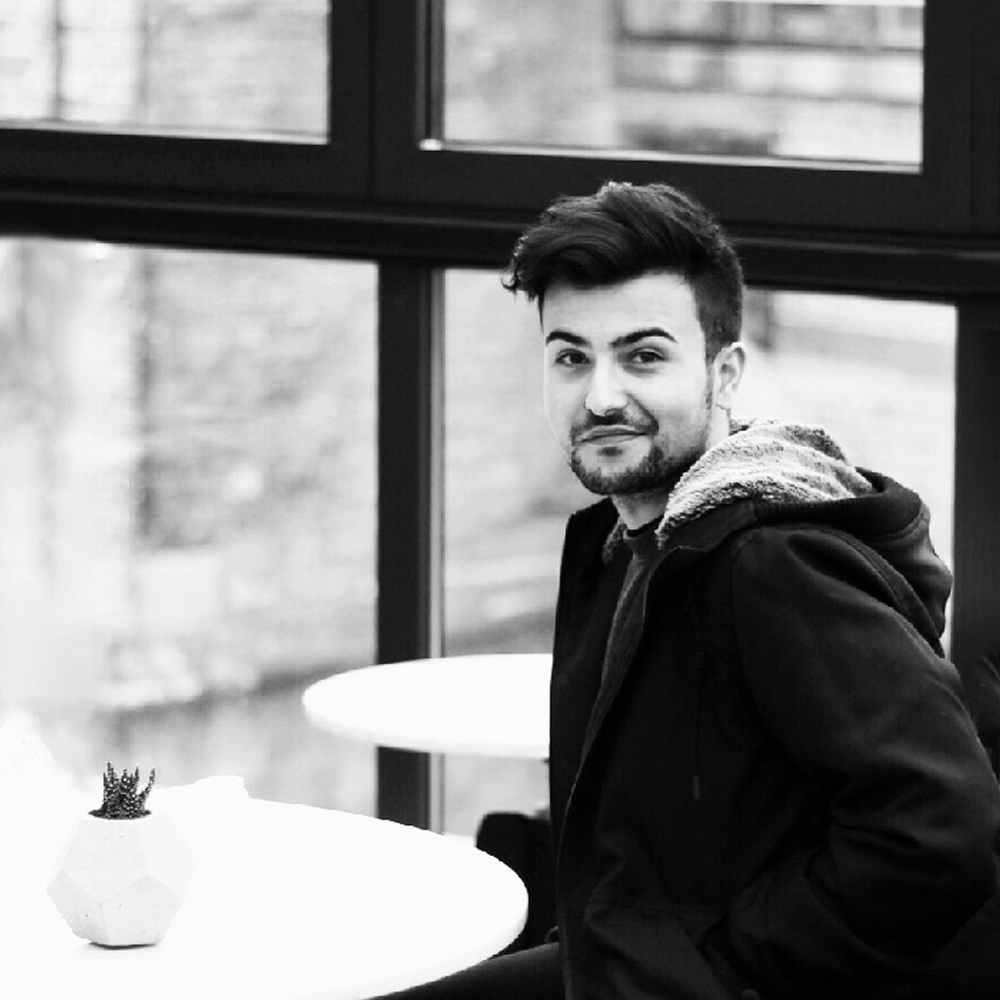
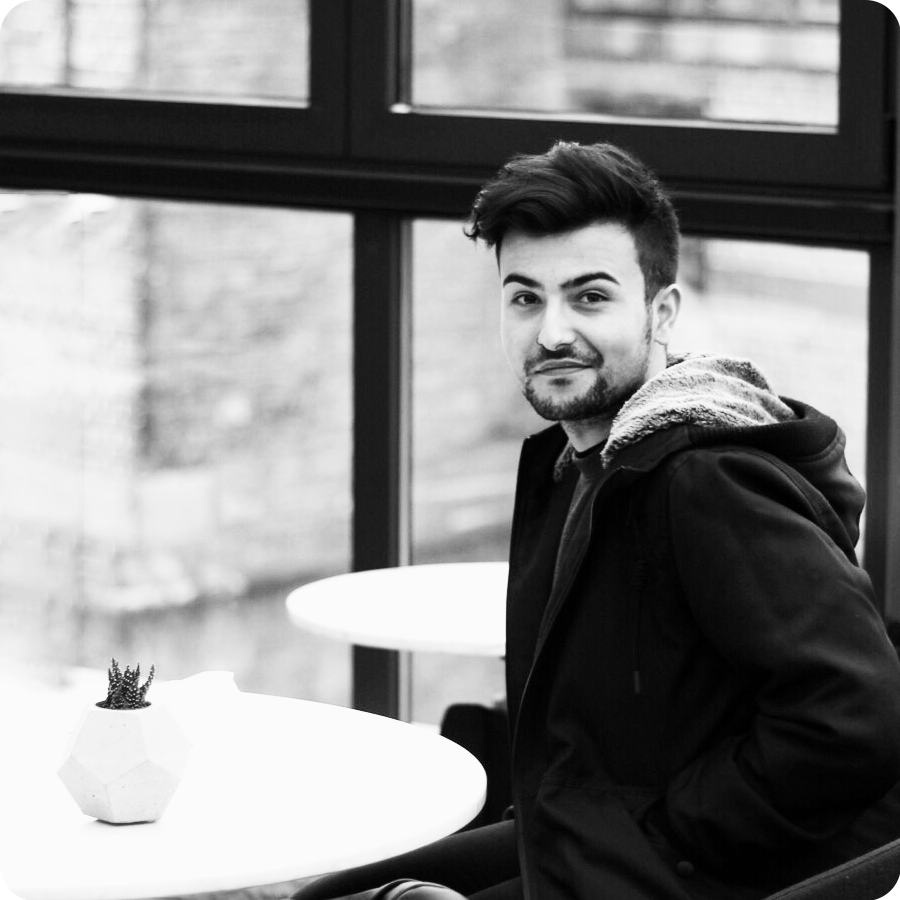
update about pic

diff --git a/-stylesheets/style-home.css b/-stylesheets/style-home.css
@@ -67,7 +67,7 @@ picture {
 
 #about figure img {
   border-radius: 2rem;
-  object-fit: cover;
+  object-fit: contain;
 }
 
 #about .section-text {
